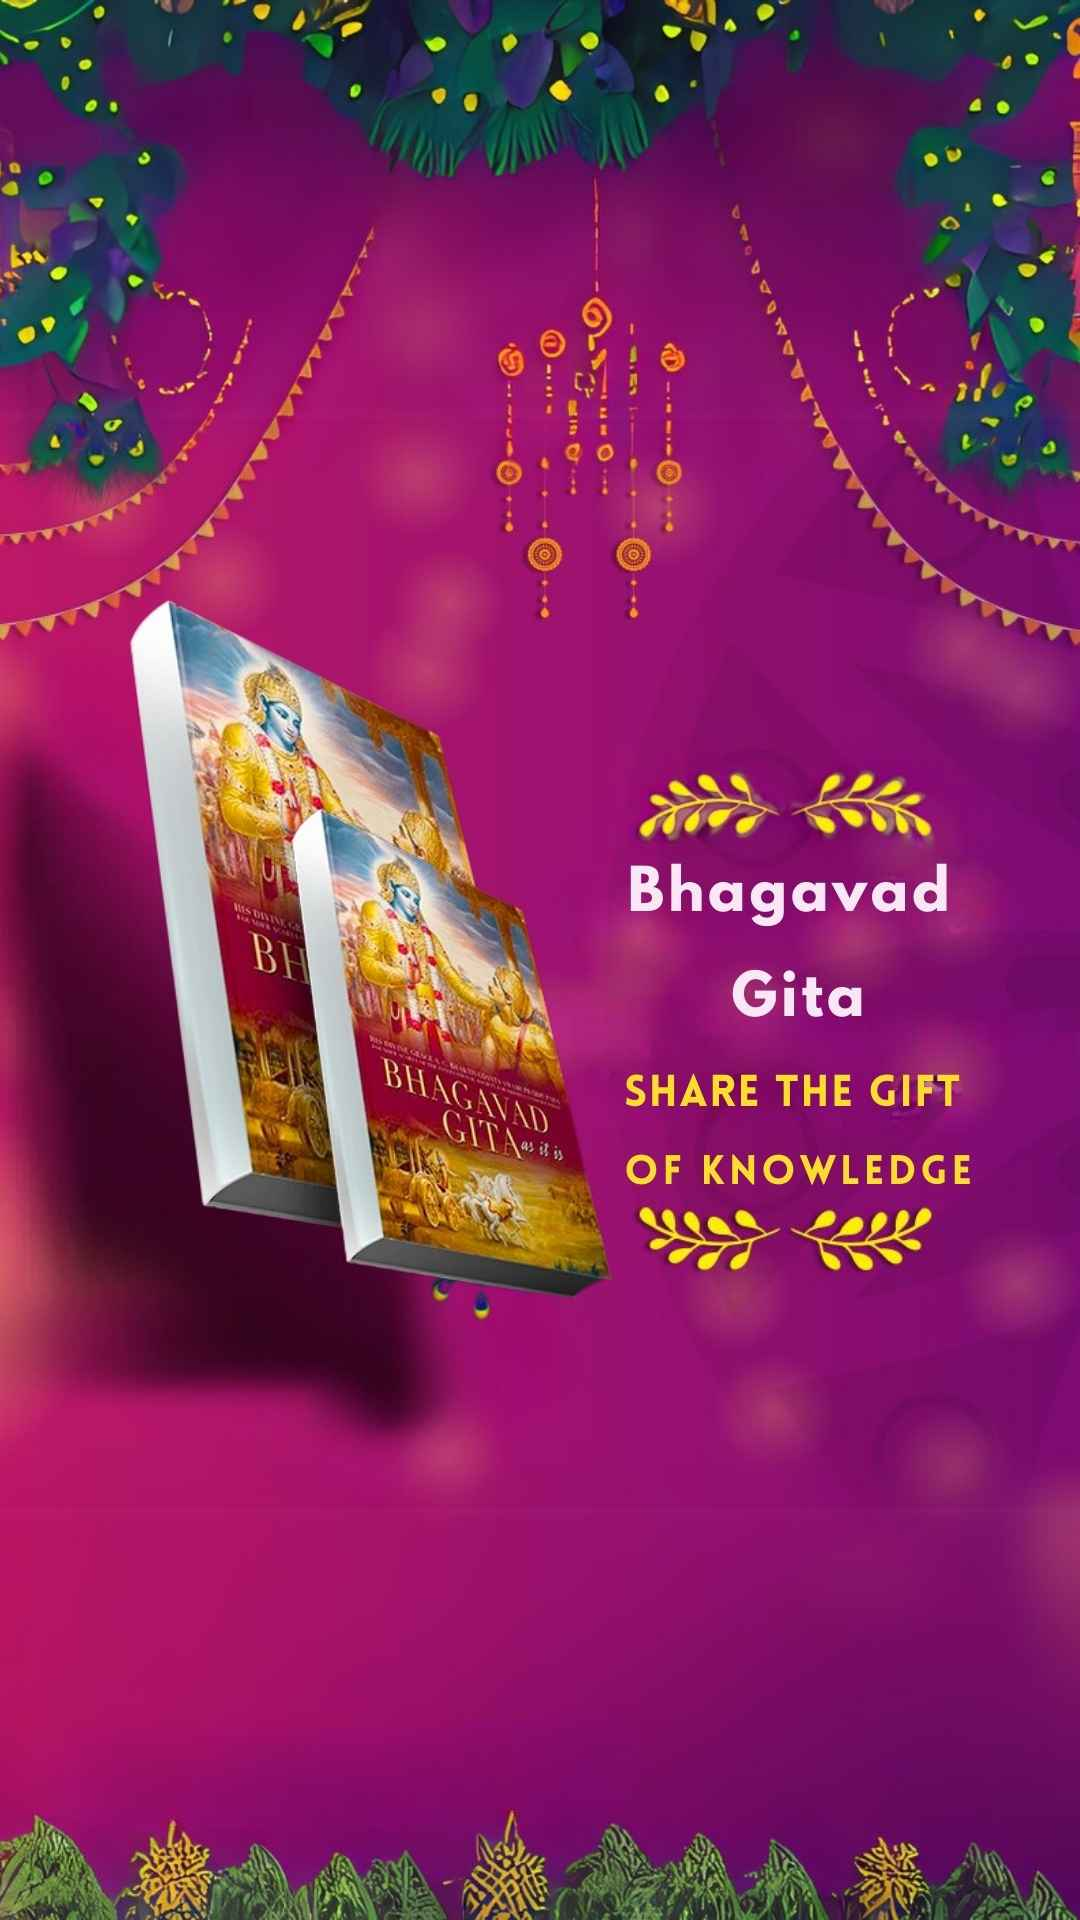
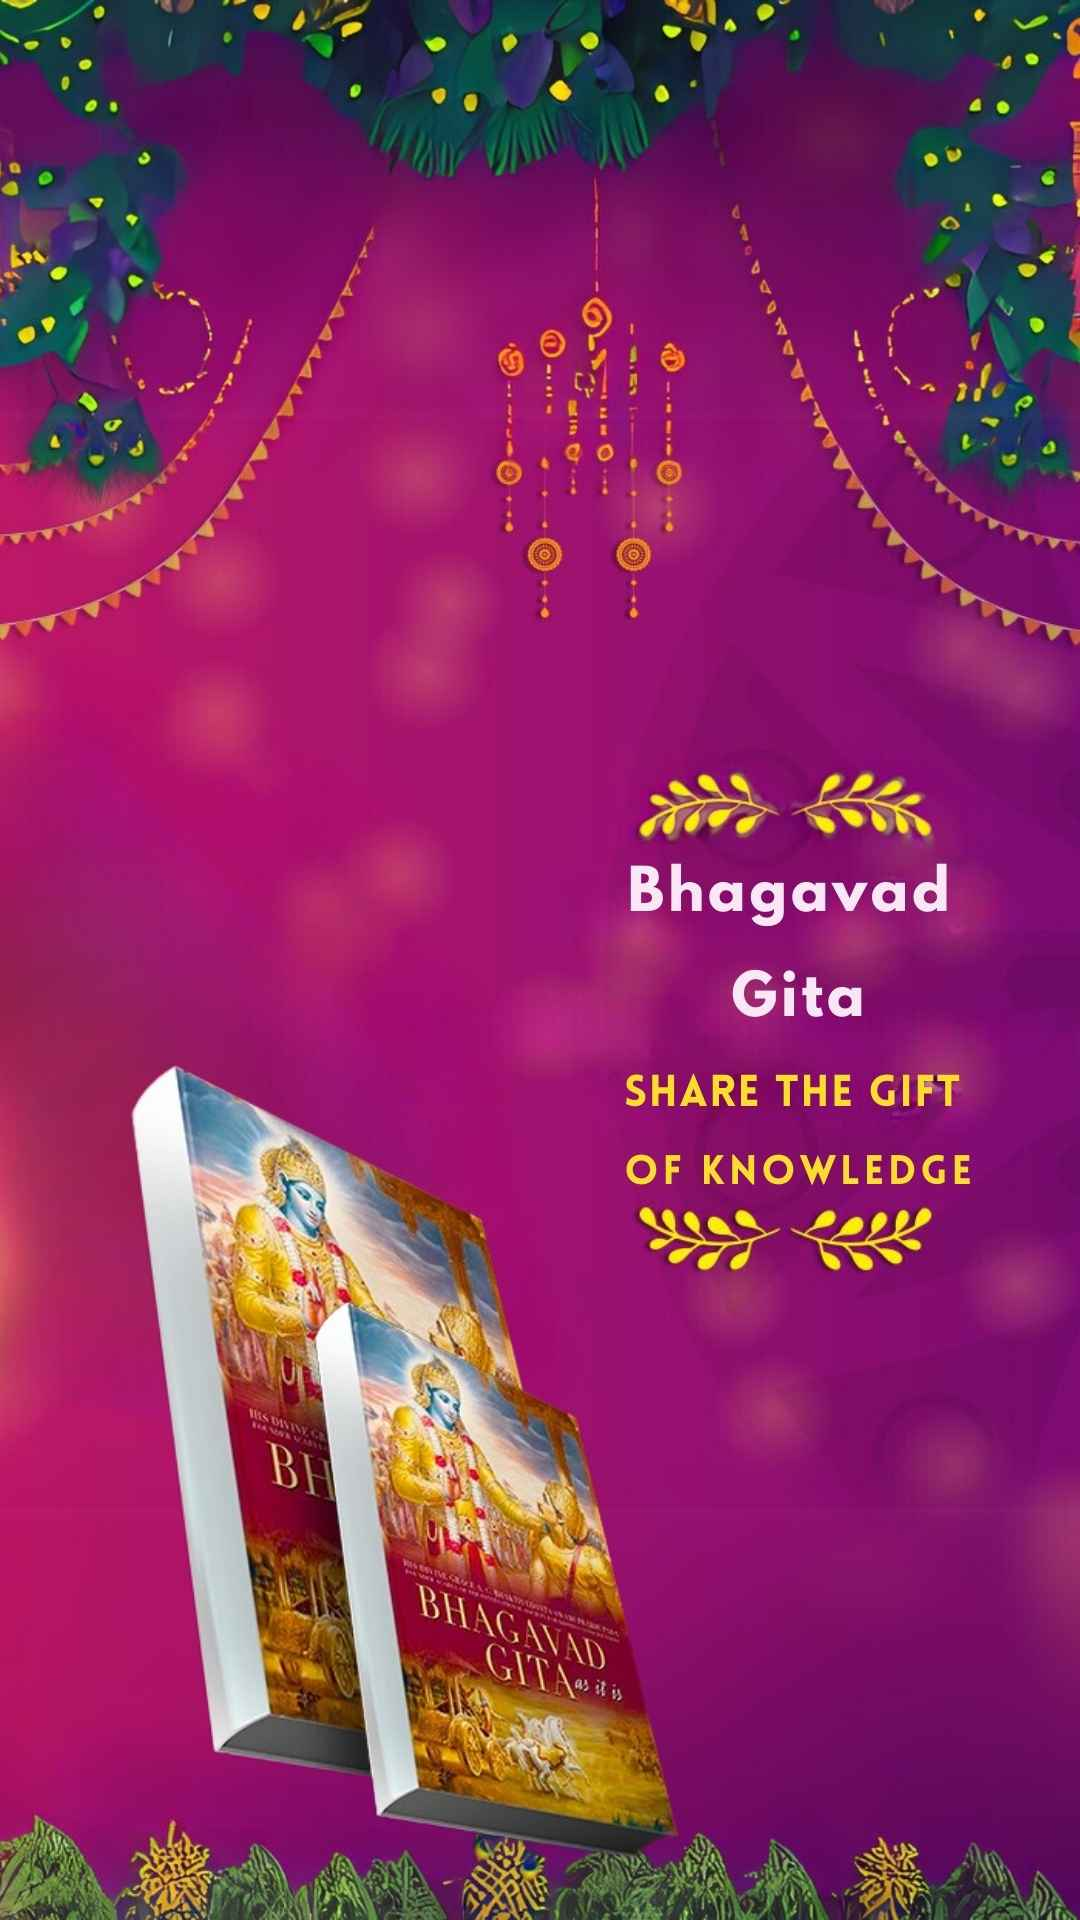
Image UPdated for Mobile and Kumbh Mela Added

Changed region(s): [[0.0, 0.3125, 0.6417, 1.0]]

diff --git a/index.html b/index.html
@@ -722,23 +722,147 @@ style="position: sticky;
         </div>
     </div>
 </section>
+<style>
+    body {
+        font-family: 'Arial', sans-serif;
+        margin: 0;
+        padding: 0;
+        background-color: #f9f9f9;
+    }
+    .donation-container {
+        text-align: center;
+        padding: 20px;
+    }
+        .donation-container h1 {
+        font-size: 2.5rem; /* Larger font size */
+        color: #d32f2f; /* Bright red color */
+        font-weight: bold;
+        text-transform: uppercase; /* Capitalize all letters */
+        text-shadow: 2px 2px 4px rgba(0, 0, 0, 0.3); /* Add shadow for depth */
+        margin-bottom: 20px;
+        }
+        .donation-container h1 span {
+            color: #ff5722; /* Optional: Use a secondary red/orange color for emphasis */
+        }
 
-<!-- <section class="ftco-section ftco-no-pb">
-    <div class="container"> -->
-    <!-- <div class="col-md-7 heading-section text-center ftco-animate" style="text-align: center; display: flex; flex-direction: column; justify-content: center; align-items: center;">
-        <span class="subheading" style="text-align: center;">Donate</span>
-        <h2 style="text-align: center;">Support book distribution at Kumbh Mela, spreading wisdom and light.</h2>
-    </div>
-    </div></section> -->
-    <!-- <section class="ftco-section"> -->
-        <!-- <div class="container"> -->
-            <!-- <div class="row justify-content-center pb-1 mb-1">
+    .image-container {
+        max-width: 80%;
+        margin: 20px auto;
+    }
+    .image-container img {
+        width: 100%;
+        border-radius: 10px;
+        box-shadow: 0 4px 8px rgba(0, 0, 0, 0.1);
+    }
+    .donation-boxes {
+        display: flex;
+        flex-wrap: wrap;
+        justify-content: space-between;
+        gap: 20px;
+        margin-top: 20px;
+    }
+    .donation-box {
+        flex: 1;
+        height : 100%; */
+         /* max-width: 120px; */ */
+        min-width: 150px;
+        background-color: #fff;
+        border: 1px solid #230000;
+        border-radius: 10px;
+        padding: 15px;
+        box-shadow: 0 4px 6px rgba(0, 0, 0, 0.1);
+        transition: transform 0.2s ease, box-shadow 0.3s ease;
+        text-align: center;
+    }
+    .donation-box:hover {
+        transform: translateY(-5px);
+        box-shadow: 0 6px 12px rgba(0, 0, 0, 0.15);
+    }
+    .donation-box h3 {
+        font-weight: bold;
+        font-size: 1.5rem;
+        color: #340044;
+        margin-bottom: 10px;
+    }
+    .donation-box p {
+        font-size: 1rem;
+        margin: 10px 0;
+        color: #333;
+    }
+    .donation-box p span {
+        font-weight: bold;
+        color: #4e006c;
+    }
+    .donation-box button {
+        padding: 10px 20px;
+        font-size: 1rem;
+        background-color: #64008d;
+        color: white;
+        border: none;
+        border-radius: 4px;
+        cursor: pointer;
+    }
+    .donation-box button:hover {
+        background-color: #4e006c;
+    }
+    @media (max-width: 768px) {
+        .donation-boxes {
+            flex-direction: column;
+        }
+        .donation-box {
+            max-width: 100%;
+        }
+    }
+    
+</style>
+
+    <section class="" style="padding-top: 20px; margin-top: 5px;" style="padding-bottom: 10px;margin-bottom: 5px;"> 
+        <div class="container">
+            <div class="row justify-content-center pb-1 mb-1">
                 <div class="col-md-10 heading-section text-center ftco-animate">
                     <span class="subheading">Donate Now</span>
                     <h2>Support book distribution at Kumbh Mela, spreading wisdom and light.</h2>
                 </div>
-            </div> -->
-        <!-- </section> -->
+            </div>
+                </section>
+        <section class="donation-container">
+            <!-- Title -->
+            <!-- <h1>Support Shastra Daan at Kumbh Mela</h1> -->
+            <!-- Image -->
+            <div class="image-container">
+                <img src="/My website/Donation format/Gita Dana_Prayagraj_2024_Eng_1920x1080 px_11zon.jpg" alt="Shastra Daan Image">
+            </div>
+            <!-- Donation Boxes -->
+            <div class="donation-boxes">
+                <div class="donation-box">
+                    <h3>₹2310</h3>
+                    <p><span>11 Bhagavad Gita</span></p>
+                    <a href="#donation-form"> <button value="2310" onclick="setDonationAmount(2310)">Donate ₹2,310</button></a>
+                </div>
+                <div class="donation-box">
+                    <h3>₹10710</h3>
+                    <p><span>51 Bhagavad Gita</span></p>
+                    <a href="#donation-form"> <button value="10710" onclick="setDonationAmount(10710)">Donate ₹10,710</button></a>
+                </div>
+                <div class="donation-box">
+                    <h3>₹22680</h3>
+                    <p><span>108 Bhagavad Gita</span></p>
+                    <a href="#donation-form"><button value="22680" onclick="setDonationAmount(22680)">Donate ₹22,680</button></a>
+                </div>
+            
+                <div class="donation-box">
+                    <h3>₹43680</h3>
+                    <p><span>208 Gitas</span></p>
+                    <a href="#donation-form"><button value="43680" onclick="setDonationAmount(43680)">Donate ₹43,680</button></a>
+                </div>
+                <div class="donation-box">
+                    <h3>Custom Amount</h3>
+                    <p>Enter your desired amount:</p>
+                    <input type="number" id="customAmount" placeholder="Enter amount" style="width: 80%; padding: 8px; margin-bottom: 10px; border: 2px solid #e0d8ec; border-radius: 5px;">
+                    <a href="#donation-form"><button value="number" onclick="setCustomAmount()" >Donate Now</button></a>
+                </div>
+            </div>
+        </section>
 <div style="position: relative; width: 100%; height: auto;">
     <!-- Transparent Overlay -->
     <!-- <div style="position: absolute;
@@ -1321,5 +1445,26 @@ style="position: sticky;
 <script src="https://maps.googleapis.com/maps/api/js?key=AIzaSyBVWaKrjvy3MaE7SQ74_uJiULgl1JY0H2s&sensor=false"></script>
 <script src="https://jivadaya.github.io/assets/js/google-map.js"></script>
 <script src="https://jivadaya.github.io/assets/js/main.js"></script>
+<script>
+    function setDonationAmount(amount) {
+        const amountField = document.getElementById("amount");
+        if (amountField) {
+            amountField.value = amount;
+        }
+    }
+
+    function setCustomAmount() {
+        const customAmountField = document.getElementById("customAmount");
+        const amountField = document.getElementById("amount");
+        if (customAmountField && amountField) {
+            const value = parseInt(customAmountField.value, 10);
+            if (value >= 210 && value <= 10000000) {
+                amountField.value = value;
+            } else {
+                alert("Please enter a valid amount between ₹210 and ₹10,000,000.");
+            }
+        }
+    }
+</script>
 </body>
 </html>
